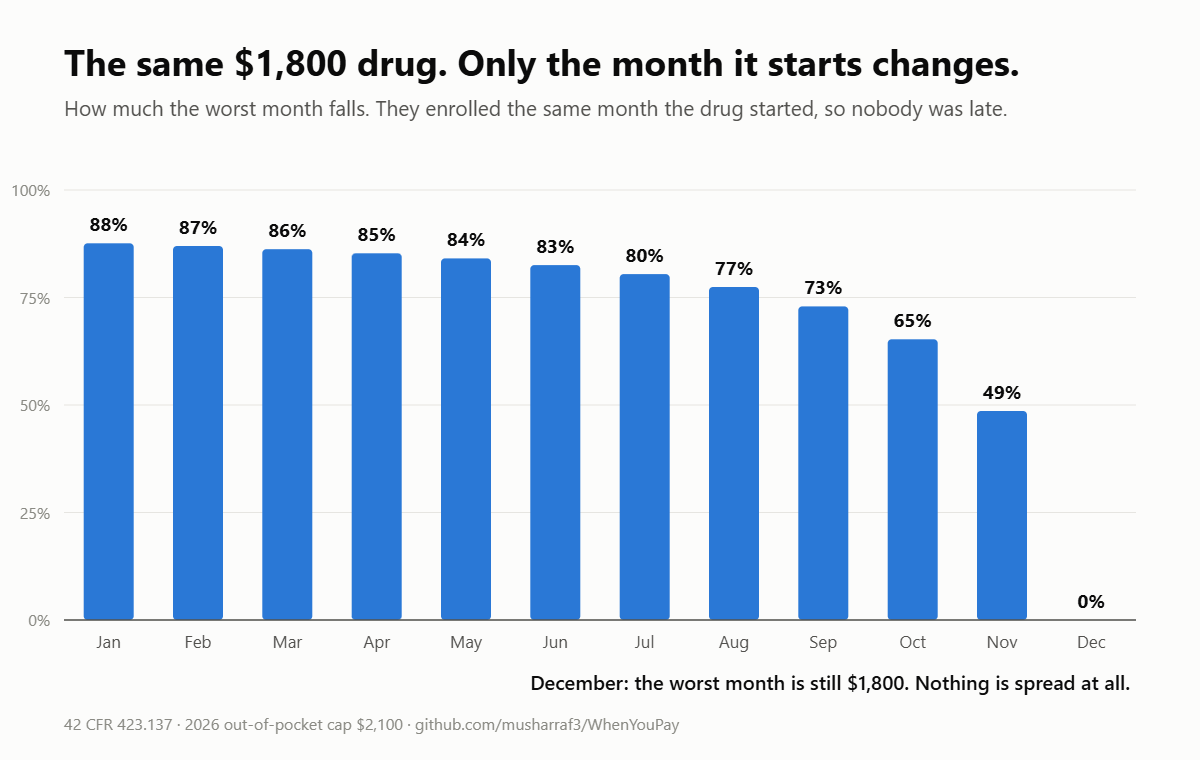
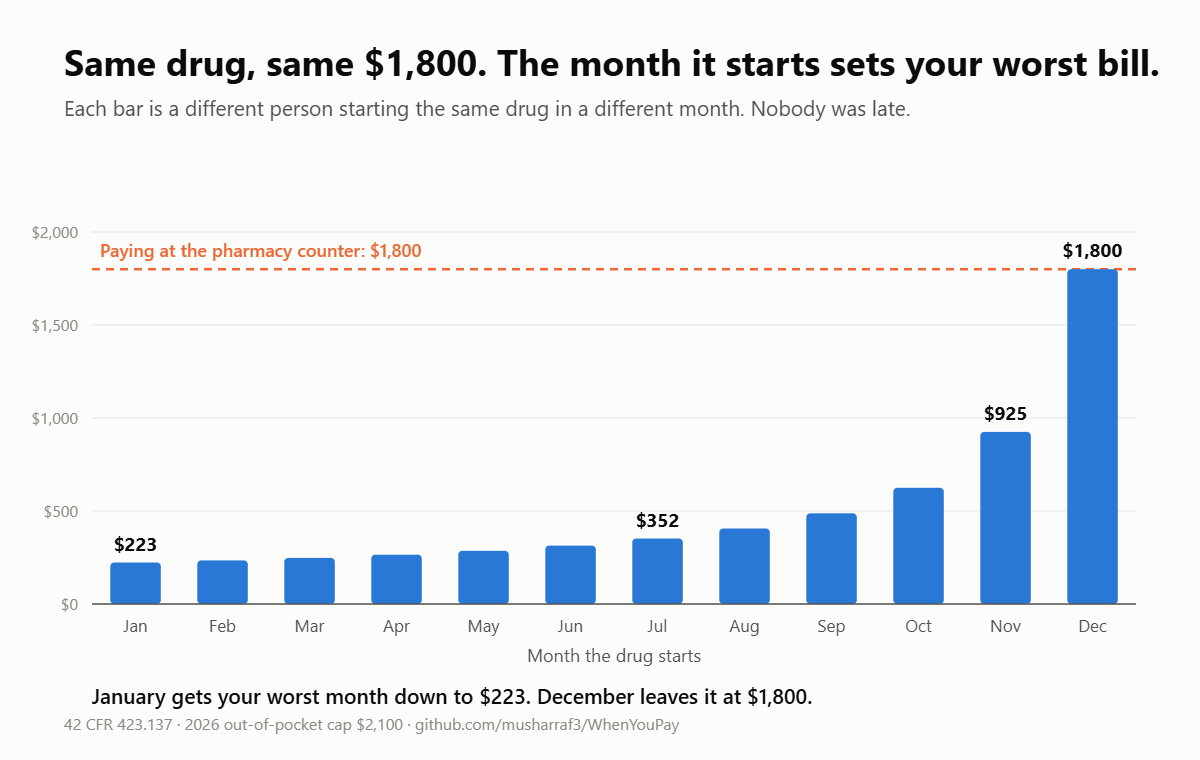
Redraw the calendar figure in dollars against a visible baseline
The first version plotted the percentage the worst month falls. Two problems,
both found by reading it as a stranger would:

- A percentage of a baseline the chart never showed. "88%" is unanchored
  unless you already know what the counter would have charged, which is
  exactly what a scroller does not know.
- Twelve bars labelled Jan-Dec read as one year declining. They are twelve
  separate people, each starting the same drug in a different month. The
  chart said nothing to prevent the time-series reading.

Now the y-axis is dollars, the counter is a labelled dashed line at $1,800,
and the bars rise toward it until December touches it. The vanishing gap is
the argument, and the x-axis says "Month the drug starts".

Also on the cliff figure: shortened the title so it stops overflowing the
canvas, and moved the four-months-cost-more fact into the closing line, where
it was colliding with the September through December bars.

Changed region(s): [[0.0, 0.2724, 0.9558, 0.9382], [0.0308, 0.0605, 0.9558, 0.1513], [0.0, 0.2421, 0.0308, 0.2724]]

diff --git a/figures/make_figures.py b/figures/make_figures.py
@@ -52,49 +52,65 @@ def head(title: str, subtitle: str, footer: str) -> list[str]:
 
 
 def calendar_figure() -> str:
-    """Relief in the worst month, by the month the drug starts."""
+    """The worst single month, in dollars, by the month the drug starts.
+
+    Earlier drafts plotted the *percentage* the worst month falls. That was a
+    ratio against a baseline the chart never showed, and twelve bars labelled
+    Jan-Dec read as one year declining rather than as twelve separate people.
+    Dollars against a visible counter line fix both: the bar is what you pay,
+    the line is what you would have paid, and the closing gap is the story.
+    """
     rows = RESULTS["shock_month_sweep"]
-    x0, y0, plot_w, plot_h = 64, 190, W - 128, 430
+    counter = max(r["worst_month"] for r in rows)      # $1,800, the December case
+    x0, y0, plot_w, plot_h = 92, 232, W - 156, 372
+    top = 2000.0
 
     s = head(
-        "The same $1,800 drug. Only the month it starts changes.",
-        "How much the worst month falls. They enrolled the same month the drug "
-        "started, so nobody was late.",
+        "Same drug, same $1,800. The month it starts sets your worst bill.",
+        "Each bar is a different person starting the same drug in a different "
+        "month. Nobody was late.",
         "42 CFR 423.137 · 2026 out-of-pocket cap $2,100 · "
         "github.com/musharraf3/WhenYouPay",
     )
 
-    for pct in (0, 25, 50, 75, 100):
-        y = y0 + plot_h - plot_h * pct / 100
+    for v in (0, 500, 1000, 1500, 2000):
+        y = y0 + plot_h - plot_h * v / top
         s.append(f'<line x1="{x0}" y1="{y:.1f}" x2="{x0+plot_w}" y2="{y:.1f}" '
                  f'stroke="{GRID}" stroke-width="1"/>')
         s.append(f'<text x="{x0-14}" y="{y+6:.1f}" font-size="16" fill="{MUTED}" '
-                 f'text-anchor="end">{pct}%</text>')
+                 f'text-anchor="end">${v:,}</text>')
+
+    # the thing every bar is being compared against, drawn before the bars
+    yc = y0 + plot_h - plot_h * counter / top
+    s.append(f'<line x1="{x0}" y1="{yc:.1f}" x2="{x0+plot_w}" y2="{yc:.1f}" '
+             f'stroke="{ORANGE}" stroke-width="2.5" stroke-dasharray="8 6"/>')
+    s.append(f'<text x="{x0+8}" y="{yc-12:.1f}" font-size="18" font-weight="600" '
+             f'fill="{ORANGE}">Paying at the pharmacy counter: ${counter:,.0f}</text>')
 
     slot = plot_w / len(rows)
-    bw = slot * 0.56
+    bw = slot * 0.58
     for i, r in enumerate(rows):
-        pct = r["relief_share"] * 100
-        bh = plot_h * pct / 100
+        amt = r["worst_month"]
+        bh = plot_h * amt / top
         x = x0 + slot * i + (slot - bw) / 2
         y = y0 + plot_h - bh
-        if bh > 0:
-            s.append(f'<rect x="{x:.1f}" y="{y:.1f}" width="{bw:.1f}" '
-                     f'height="{bh:.1f}" rx="4" fill="{BLUE}"/>')
-        s.append(f'<text x="{x+bw/2:.1f}" y="{(y-12) if bh > 0 else y0+plot_h-12:.1f}" '
-                 f'font-size="19" font-weight="700" fill="{INK}" '
-                 f'text-anchor="middle">{pct:.0f}%</text>')
+        s.append(f'<rect x="{x:.1f}" y="{y:.1f}" width="{bw:.1f}" '
+                 f'height="{bh:.1f}" rx="4" fill="{BLUE}"/>')
+        if i in (0, 6, 10, 11):
+            s.append(f'<text x="{x+bw/2:.1f}" y="{y-12:.1f}" font-size="19" '
+                     f'font-weight="700" fill="{INK}" text-anchor="middle">'
+                     f'${amt:,.0f}</text>')
         s.append(f'<text x="{x+bw/2:.1f}" y="{y0+plot_h+28:.1f}" font-size="17" '
                  f'fill="{INK2}" text-anchor="middle">{esc(r["shock_month"][:3])}</text>')
 
     s.append(f'<line x1="{x0}" y1="{y0+plot_h}" x2="{x0+plot_w}" y2="{y0+plot_h}" '
              f'stroke="{INK2}" stroke-width="1.5"/>')
+    s.append(f'<text x="{x0+plot_w/2:.1f}" y="{y0+plot_h+58:.1f}" font-size="18" '
+             f'fill="{INK2}" text-anchor="middle">Month the drug starts</text>')
 
-    last = rows[-1]
-    s.append(f'<text x="{x0+plot_w-6}" y="{y0+plot_h+70}" font-size="20" '
-             f'font-weight="600" fill="{INK}" text-anchor="end">'
-             f'December: the worst month is still ${last["worst_month"]:,.0f}. '
-             f'Nothing is spread at all.</text>')
+    s.append(f'<text x="{x0}" y="{y0+plot_h+100:.1f}" font-size="21" '
+             f'font-weight="600" fill="{INK}">January gets your worst month down '
+             f'to $223. December leaves it at $1,800.</text>')
     s.append("</svg>")
     return "\n".join(s)
 
@@ -115,9 +131,9 @@ def cliff_figure() -> str:
     top = 200.0
 
     s = head(
-        "$60 a month, every month. December bills $181.19.",
-        "A steady prescription and no shock. The bill climbs because the balance "
-        "has fewer months left to divide into.",
+        "$60 every month. The program bills $181.19 in December.",
+        "Nothing unusual happens all year. The bill climbs because each month's "
+        "balance is divided into fewer remaining months.",
         "Medicare publishes the same shape: its $80-a-month example ends at "
         "$241.53 · github.com/musharraf3/WhenYouPay",
     )
@@ -163,9 +179,11 @@ def cliff_figure() -> str:
     s.append(f'<text x="{x0+276}" y="{ly}" font-size="18" fill="{INK2}">'
              f'At the pharmacy counter ($60)</text>')
 
-    s.append(f'<text x="{x0}" y="{y0+plot_h+70}" font-size="20" font-weight="600" '
-             f'fill="{INK}">Same $720 across the year either way. '
-             f'Four months cost more than paying at the counter.</text>')
+    over = [i for i, a in enumerate(billed) if a > per_month]
+
+    s.append(f'<text x="{x0}" y="{y0+plot_h+72}" font-size="21" font-weight="600" '
+             f'fill="{INK}">The year costs $720 either way. '
+             f'{len(over)} of the 12 months cost more than paying cash.</text>')
     s.append("</svg>")
     return "\n".join(s)
 
